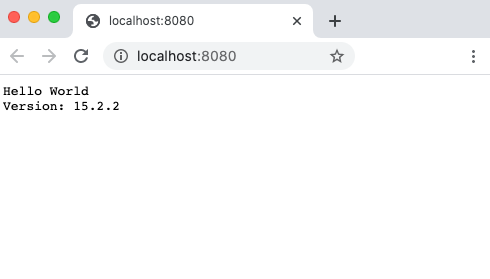
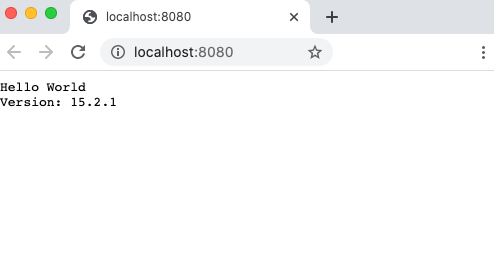
review

diff --git a/articles/container-registry/container-registry-tutorial-private-base-image-update.md b/articles/container-registry/container-registry-tutorial-private-base-image-update.md
@@ -8,7 +8,7 @@ ms.custom: devx-track-js, devx-track-azurecli
 
 # Tutorial: Automate container image builds when a base image is updated in another private container registry 
 
-ACR Tasks supports automated image builds when a container's [base image is updated](container-registry-tasks-base-images.md), such as when you patch the OS or application framework in one of your base images. 
+[ACR Tasks](container-registry-tasks-overview.md) supports automated image builds when a container's [base image is updated](container-registry-tasks-base-images.md), such as when you patch the OS or application framework in one of your base images. 
 
 In this tutorial, you learn how to create an ACR task that triggers a build in the cloud when a container's base image is pushed to another Azure container registry. You can also try a tutorial to create an ACR task that triggers an image build when a base image is pushed to the [same Azure container registry](container-registry-tutorial-base-image-update.md).
 
@@ -161,7 +161,7 @@ docker run -d -p 8080:80 --name myapp --rm $ACR_NAME.azurecr.io/helloworld:<run-
 
 Navigate to `http://localhost:8080` in your browser, and you should see the Node.js version number rendered in the web page, similar to the following. In a later step, you bump the version by adding an "a" to the version string.
 
-![Screenshot that shows a sample application rendered in a browser.][base-update-01]
+:::image type="content" source="media/container-registry-tutorial-base-image-update/base-update-01.png" alt-text="Screenshot of sample application in browser":::
 
 To stop and remove the container, run the following command:
 
@@ -197,7 +197,7 @@ caw       taskhelloworld  linux       Succeeded  Commit        2020-11-20T23:16:
 Here you simulate a framework patch in the base image. Edit **Dockerfile-base**, and add an "a" after the version number defined in `NODE_VERSION`:
 
 ```Dockerfile
-ENV NODE_VERSION 15.2.2a
+ENV NODE_VERSION 15.2.1a
 ```
 
 Run a quick task to build the modified base image. Take note of the **Run ID** in the output.
@@ -244,7 +244,7 @@ docker run -d -p 8081:80 --name updatedapp --rm $ACR_NAME.azurecr.io/helloworld:
 
 Navigate to http://localhost:8081 in your browser, and you should see the updated Node.js version number (with the "a") in the web page:
 
-![Screenshot of sample application rendered in browser][base-update-02]
+:::image type="content" source="media/container-registry-tutorial-base-image-update/base-update-02.png" alt-text="Screenshot of updated sample application in browser":::
 
 What's important to note is that you updated your **base** image with a new version number, but the last-built **application** image displays the new version. ACR Tasks picked up your change to the base image, and rebuilt your application image automatically.
 
@@ -284,6 +284,3 @@ In this tutorial, you learned how to use a task to automatically trigger contain
 [az-acr-show]: /cli/azure/acr#az-acr-show
 [az-role-assignment-create]: /cli/azure/role/assignment#az-role-assignment-create
 
-<!-- IMAGES -->
-[base-update-01]: ./media/container-registry-tutorial-base-image-update/base-update-01.png
-[base-update-02]: ./media/container-registry-tutorial-base-image-update/base-update-02.png

diff --git a/articles/container-registry/container-registry-tutorial-quick-task.md b/articles/container-registry/container-registry-tutorial-quick-task.md
@@ -11,7 +11,7 @@ ms.custom: "seodec18, mvc, devx-track-azurecli"
 
 # Tutorial: Build and deploy container images in the cloud with Azure Container Registry Tasks
 
-**ACR Tasks** is a suite of features within Azure Container Registry that provides streamlined and efficient Docker container image builds in Azure. In this article, you learn how to use the *quick task* feature of ACR Tasks.
+[ACR Tasks](container-registry-tasks-overview.md) is a suite of features within Azure Container Registry that provides streamlined and efficient Docker container image builds in Azure. In this article, you learn how to use the *quick task* feature of ACR Tasks.
 
 The "inner-loop" development cycle is the iterative process of writing code, building, and testing your application before committing to source control. A quick task extends your inner-loop to the cloud, providing you with build success validation and automatic pushing of successfully built images to your container registry. Your images are built natively in the cloud, close to your registry, enabling faster deployment.
 
@@ -268,7 +268,7 @@ Server running at http://localhost:80
 
 When `Server running at http://localhost:80` appears, navigate to the container's FQDN in your browser to see the running application. The FQDN should have been displayed in the output of the `az container create` command you executed in the previous section.
 
-![Screenshot of sample application rendered in browser][quick-build-02-browser]
+:::image type="content" source="media/container-registry-tutorial-quick-build/quick-build-02-browser.png" alt-text="Sample application running in browser":::
 
 To detach your console from the container, hit `Control+C`.
 

diff --git a/articles/container-registry/container-registry-tutorial-base-image-update.md b/articles/container-registry/container-registry-tutorial-base-image-update.md
@@ -11,7 +11,7 @@ ms.custom: "seodec18, mvc, devx-track-js, devx-track-azurecli"
 
 # Tutorial: Automate container image builds when a base image is updated in an Azure container registry 
 
-ACR Tasks supports automated container image builds when a container's [base image is updated](container-registry-tasks-base-images.md), such as when you patch the OS or application framework in one of your base images. 
+[ACR Tasks](container-registry-tasks-overview.md) supports automated container image builds when a container's [base image is updated](container-registry-tasks-base-images.md), such as when you patch the OS or application framework in one of your base images. 
 
 In this tutorial, you learn how to create an ACR task that triggers a build in the cloud when a container's base image is pushed to the same registry. You can also try a tutorial to create an ACR task that triggers an image build when a base image is pushed to [another Azure container registry](container-registry-tutorial-private-base-image-update.md). 
 
@@ -158,7 +158,7 @@ cat       taskhelloworld  linux       Succeeded  Manual     2020-11-20T23:07:29Z
 Here you simulate a framework patch in the base image. Edit **Dockerfile-base**, and add an "a" after the version number defined in `NODE_VERSION`:
 
 ```dockerfile
-ENV NODE_VERSION 15.2.2a
+ENV NODE_VERSION 15.2.1a
 ```
 
 Run a quick task to build the modified base image. Take note of the **Run ID** in the output.
